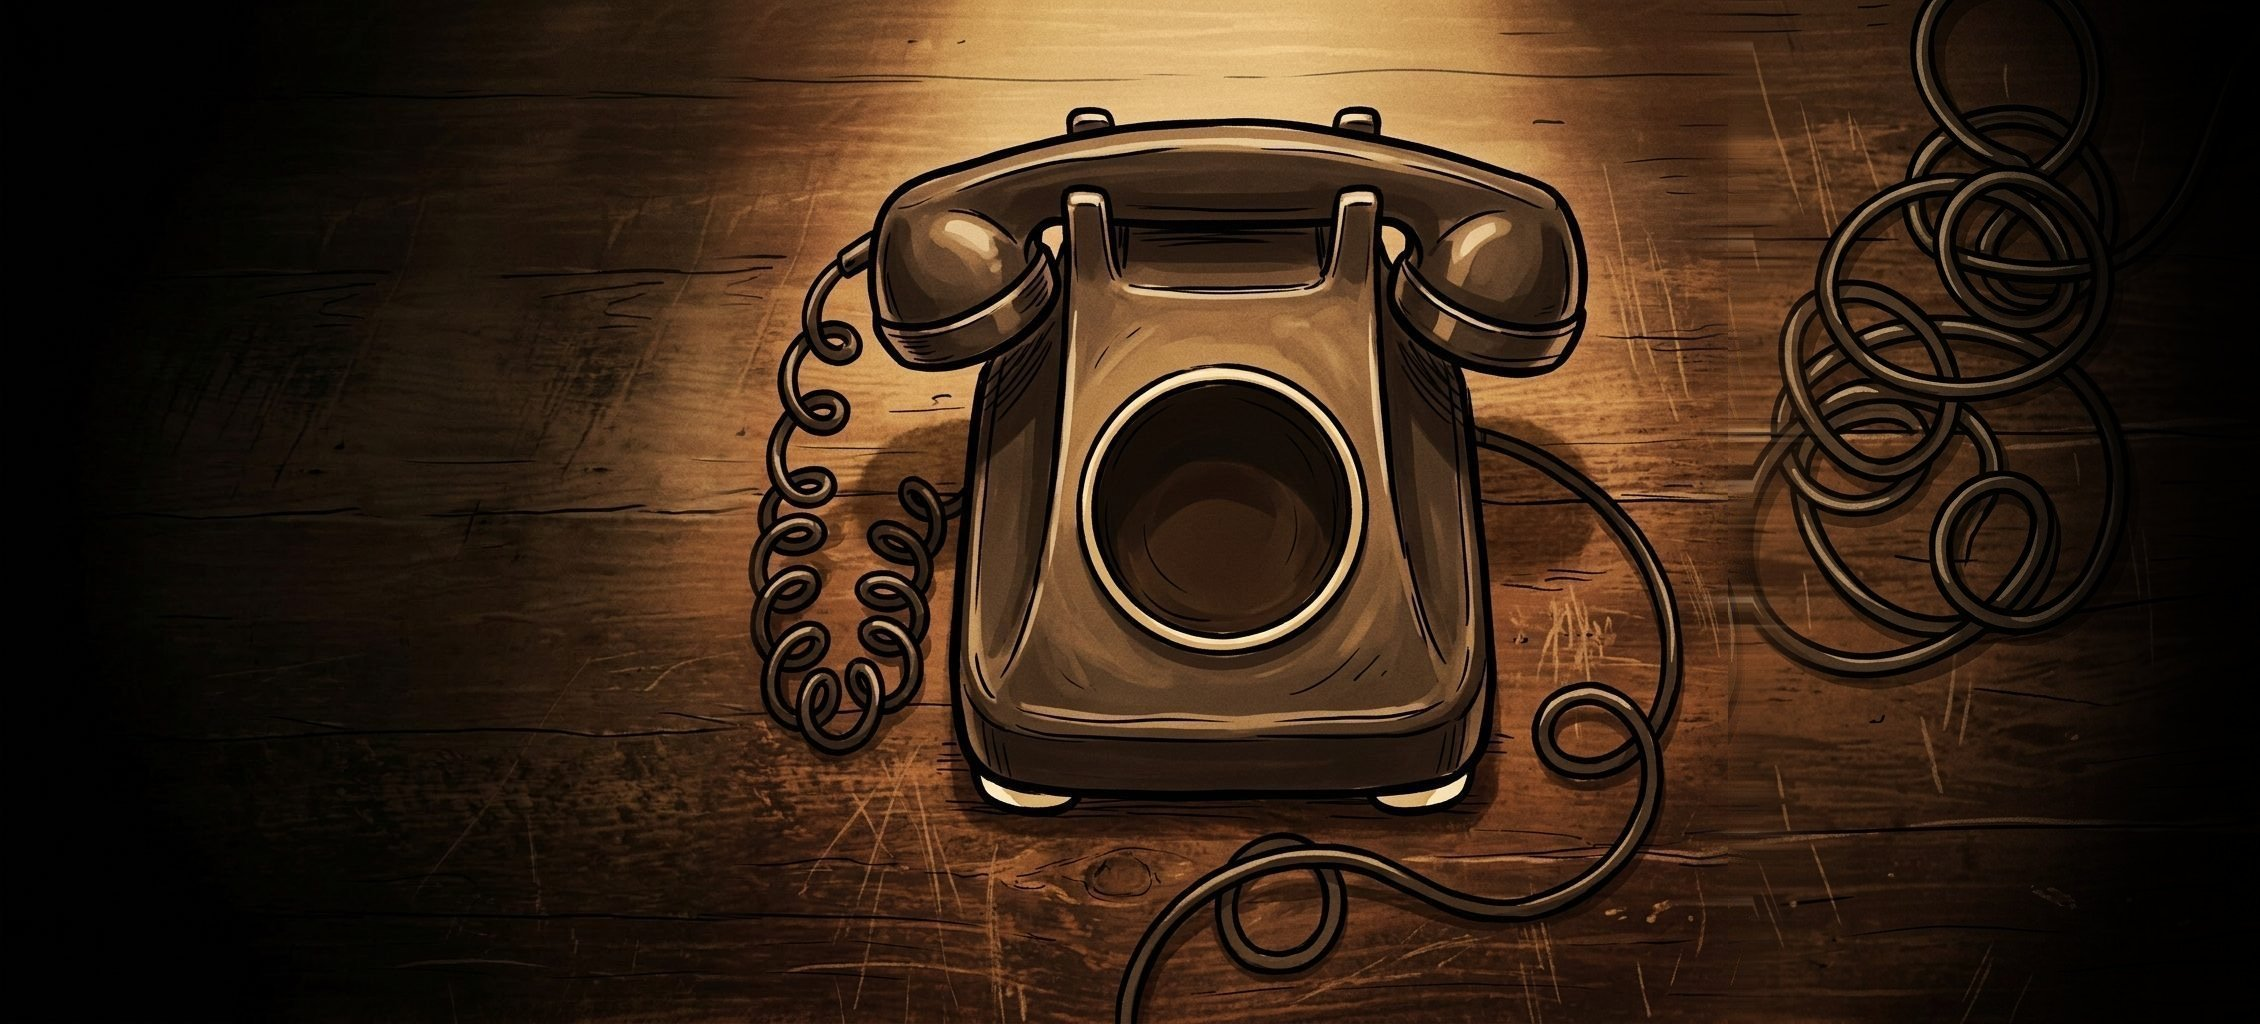
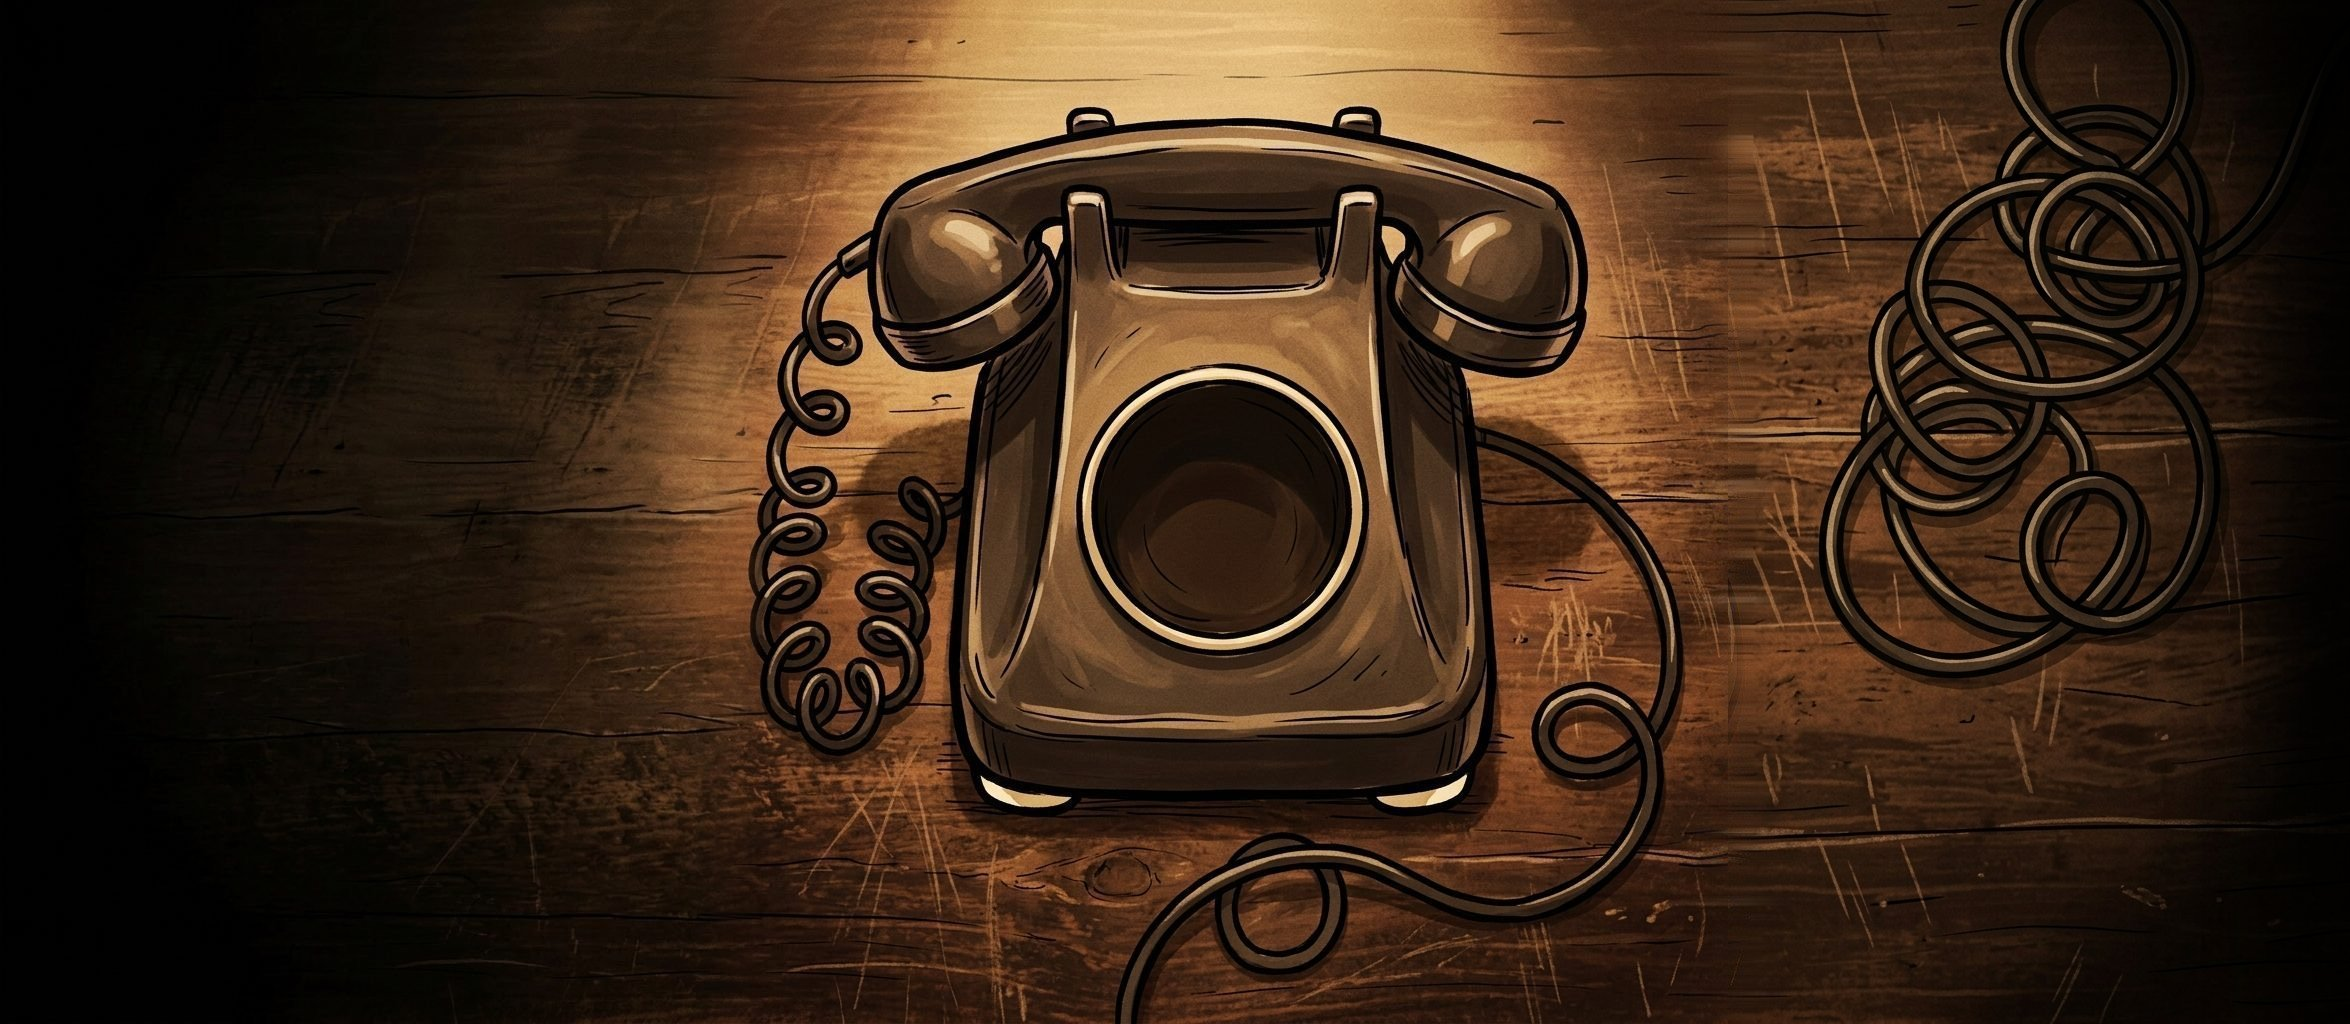
feat: add desk stickers with hold-5s-to-peel + fix blend (less trim, 100px blend, gentle edge fade)

Changed region(s): [[0.2478, 0.0, 0.9602, 1.0], [0.7743, 0.875, 0.8053, 0.9062]]

diff --git a/404.html b/404.html
@@ -48,6 +48,20 @@
     a.rz { pointer-events:auto; }
     a.rz:hover { box-shadow:0 0 30px rgba(193,255,114,0.5); background:rgba(193,255,114,0.15); }
 
+    /* Desk stickers */
+    .desk-sticker { position:absolute; z-index:6; width:64px; height:64px; cursor:grab; user-select:none; transition:transform .3s, opacity .5s, filter .3s; filter:drop-shadow(0 3px 6px rgba(0,0,0,0.5)); }
+    .desk-sticker img { width:100%; height:100%; object-fit:contain; pointer-events:none; }
+    .desk-sticker:hover { transform:scale(1.1) rotate(-3deg); filter:drop-shadow(0 6px 12px rgba(0,0,0,0.6)); }
+    .desk-sticker.peeling { animation:peel-wobble .4s ease-in-out infinite; }
+    .desk-sticker.peeled { opacity:0; transform:scale(0.3) rotate(180deg); pointer-events:none; }
+    @keyframes peel-wobble { 0%,100%{transform:rotate(-2deg) scale(1.05)} 50%{transform:rotate(2deg) scale(1.08)} }
+    .desk-sticker .peel-ring { position:absolute; inset:-6px; border:3px solid var(--lime); border-radius:50%; opacity:0; transition:opacity .2s; }
+    .desk-sticker.peeling .peel-ring { opacity:1; animation:peel-pulse 1s linear infinite; }
+    @keyframes peel-pulse { 0%{transform:scale(1);opacity:1} 100%{transform:scale(1.4);opacity:0} }
+    .peel-progress { position:absolute; bottom:-14px; left:50%; transform:translateX(-50%); width:48px; height:4px; background:rgba(255,255,255,0.15); border-radius:2px; overflow:hidden; opacity:0; }
+    .desk-sticker.peeling .peel-progress { opacity:1; }
+    .peel-fill { width:0%; height:100%; background:var(--lime); border-radius:2px; transition:width .1s linear; }
+
     /* Game info — overlaid on the phone */
     .game-overlay { position:absolute; top:-20px; right:-180px; z-index:10; pointer-events:none; opacity:0; transform:scale(0.8) translateY(10px); transition:all .3s cubic-bezier(0.34,1.56,0.64,1); }
     .game-overlay.visible { opacity:1; transform:scale(1) translateY(0); pointer-events:auto; }
@@ -128,9 +142,19 @@
       <div class="game-box">
         <div class="game-title" id="gT">KIES EEN DIENST<span class="cur"></span></div>
         <div class="game-desc" id="gD">Draai de schijf of klik op de telefoon</div>
+        <button class="call-btn-inline" id="btnCall" style="display:none" onclick="event.stopPropagation();startVapiCall()">Bel Met Lee</button>
       </div>
     </div>
   </div>
+
+  <!-- Desk stickers — hold 5s to peel -->
+  <div class="desk-sticker" style="left:6%;top:25%;transform:rotate(-12deg)" data-service="seo"><img src="/assets/images/stickers/world.webp" alt="SEO"><div class="peel-ring"></div><div class="peel-progress"><div class="peel-fill"></div></div></div>
+  <div class="desk-sticker" style="left:12%;top:65%;transform:rotate(8deg)" data-service="chatbot"><img src="/assets/images/stickers/hourglass.webp" alt="Chatbot"><div class="peel-ring"></div><div class="peel-progress"><div class="peel-fill"></div></div></div>
+  <div class="desk-sticker" style="left:3%;top:78%;transform:rotate(-5deg)" data-service="voice"><img src="/assets/images/stickers/draaitafel.webp" alt="Voice AI"><div class="peel-ring"></div><div class="peel-progress"><div class="peel-fill"></div></div></div>
+  <div class="desk-sticker" style="right:8%;top:20%;transform:rotate(15deg)" data-service="reviews"><img src="/assets/images/stickers/ferris.webp" alt="Reviews"><div class="peel-ring"></div><div class="peel-progress"><div class="peel-fill"></div></div></div>
+  <div class="desk-sticker" style="right:4%;top:55%;transform:rotate(-8deg)" data-service="auto"><img src="/assets/images/stickers/gear.webp" alt="Automatisering"><div class="peel-ring"></div><div class="peel-progress"><div class="peel-fill"></div></div></div>
+  <div class="desk-sticker" style="right:14%;top:75%;transform:rotate(6deg)" data-service="website"><img src="/assets/images/stickers/washing.webp" alt="Website"><div class="peel-ring"></div><div class="peel-progress"><div class="peel-fill"></div></div></div>
+  <div class="desk-sticker" style="left:8%;top:45%;transform:rotate(3deg)" data-service="herinner"><img src="/assets/images/stickers/windmill.webp" alt="Herinneringen"><div class="peel-ring"></div><div class="peel-progress"><div class="peel-fill"></div></div></div>
 
   <p class="click-hint">[ KLIK OP DE TELEFOON OM TE BELLEN ]</p>
 
@@ -367,6 +391,48 @@
     };
 
     startA();
+
+    // ── Desk stickers: hold 5s to peel ──
+    var HOLD_MS = 5000;
+    document.querySelectorAll('.desk-sticker').forEach(function(s) {
+      var timer = null, startTime = 0, progInterval = null;
+      var fill = s.querySelector('.peel-fill');
+
+      function beginPeel(e) {
+        e.preventDefault();
+        if (s.classList.contains('peeled')) return;
+        s.classList.add('peeling');
+        startTime = Date.now();
+        fill.style.width = '0%';
+        progInterval = setInterval(function() {
+          var pct = Math.min(100, ((Date.now() - startTime) / HOLD_MS) * 100);
+          fill.style.width = pct + '%';
+        }, 50);
+        timer = setTimeout(function() {
+          s.classList.remove('peeling');
+          s.classList.add('peeled');
+          clearInterval(progInterval);
+          // Navigate to service after peel animation
+          var svc = s.dataset.service;
+          var urls = {seo:'/seo',chatbot:'/chatbot',voice:'/voice-ai',reviews:'/reviews',auto:'/automations',website:'/website-laten-maken',herinner:'/herinneringen'};
+          if (urls[svc]) setTimeout(function(){ window.location.href = urls[svc]; }, 600);
+        }, HOLD_MS);
+      }
+
+      function cancelPeel() {
+        if (timer) { clearTimeout(timer); timer = null; }
+        if (progInterval) { clearInterval(progInterval); progInterval = null; }
+        s.classList.remove('peeling');
+        fill.style.width = '0%';
+      }
+
+      s.addEventListener('mousedown', beginPeel);
+      s.addEventListener('touchstart', beginPeel, {passive:false});
+      s.addEventListener('mouseup', cancelPeel);
+      s.addEventListener('mouseleave', cancelPeel);
+      s.addEventListener('touchend', cancelPeel);
+      s.addEventListener('touchcancel', cancelPeel);
+    });
   })();
   </script>
 </body>
